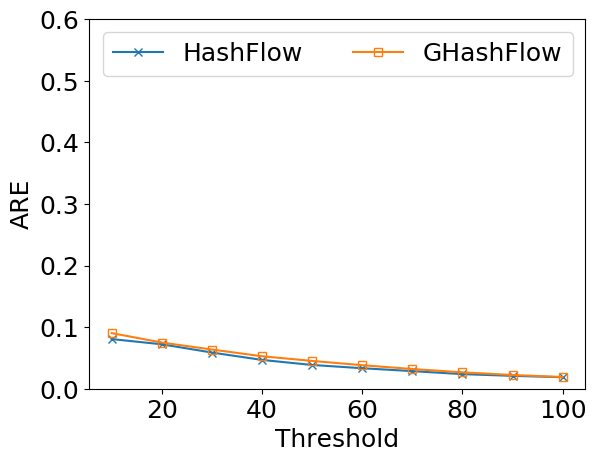
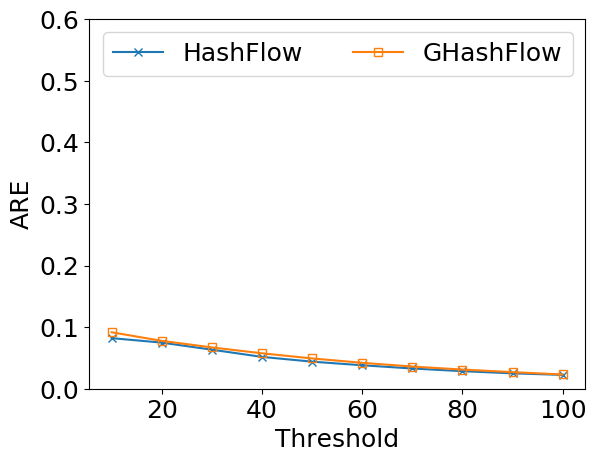
Automatic uploading. No comments!

Changed region(s): [[0.1812, 0.697, 0.9664, 0.8485]]

diff --git a/figures/exp84515/plot.py b/figures/exp84515/plot.py
@@ -7,7 +7,7 @@ import numpy as np
 font = {'size':18}
 matplotlib.rc('font', **font)
 
-n_pkts = 7*(10**6)
+n_pkts = 8*(10**6)
 
 are_30 = []
 are_40 = []
